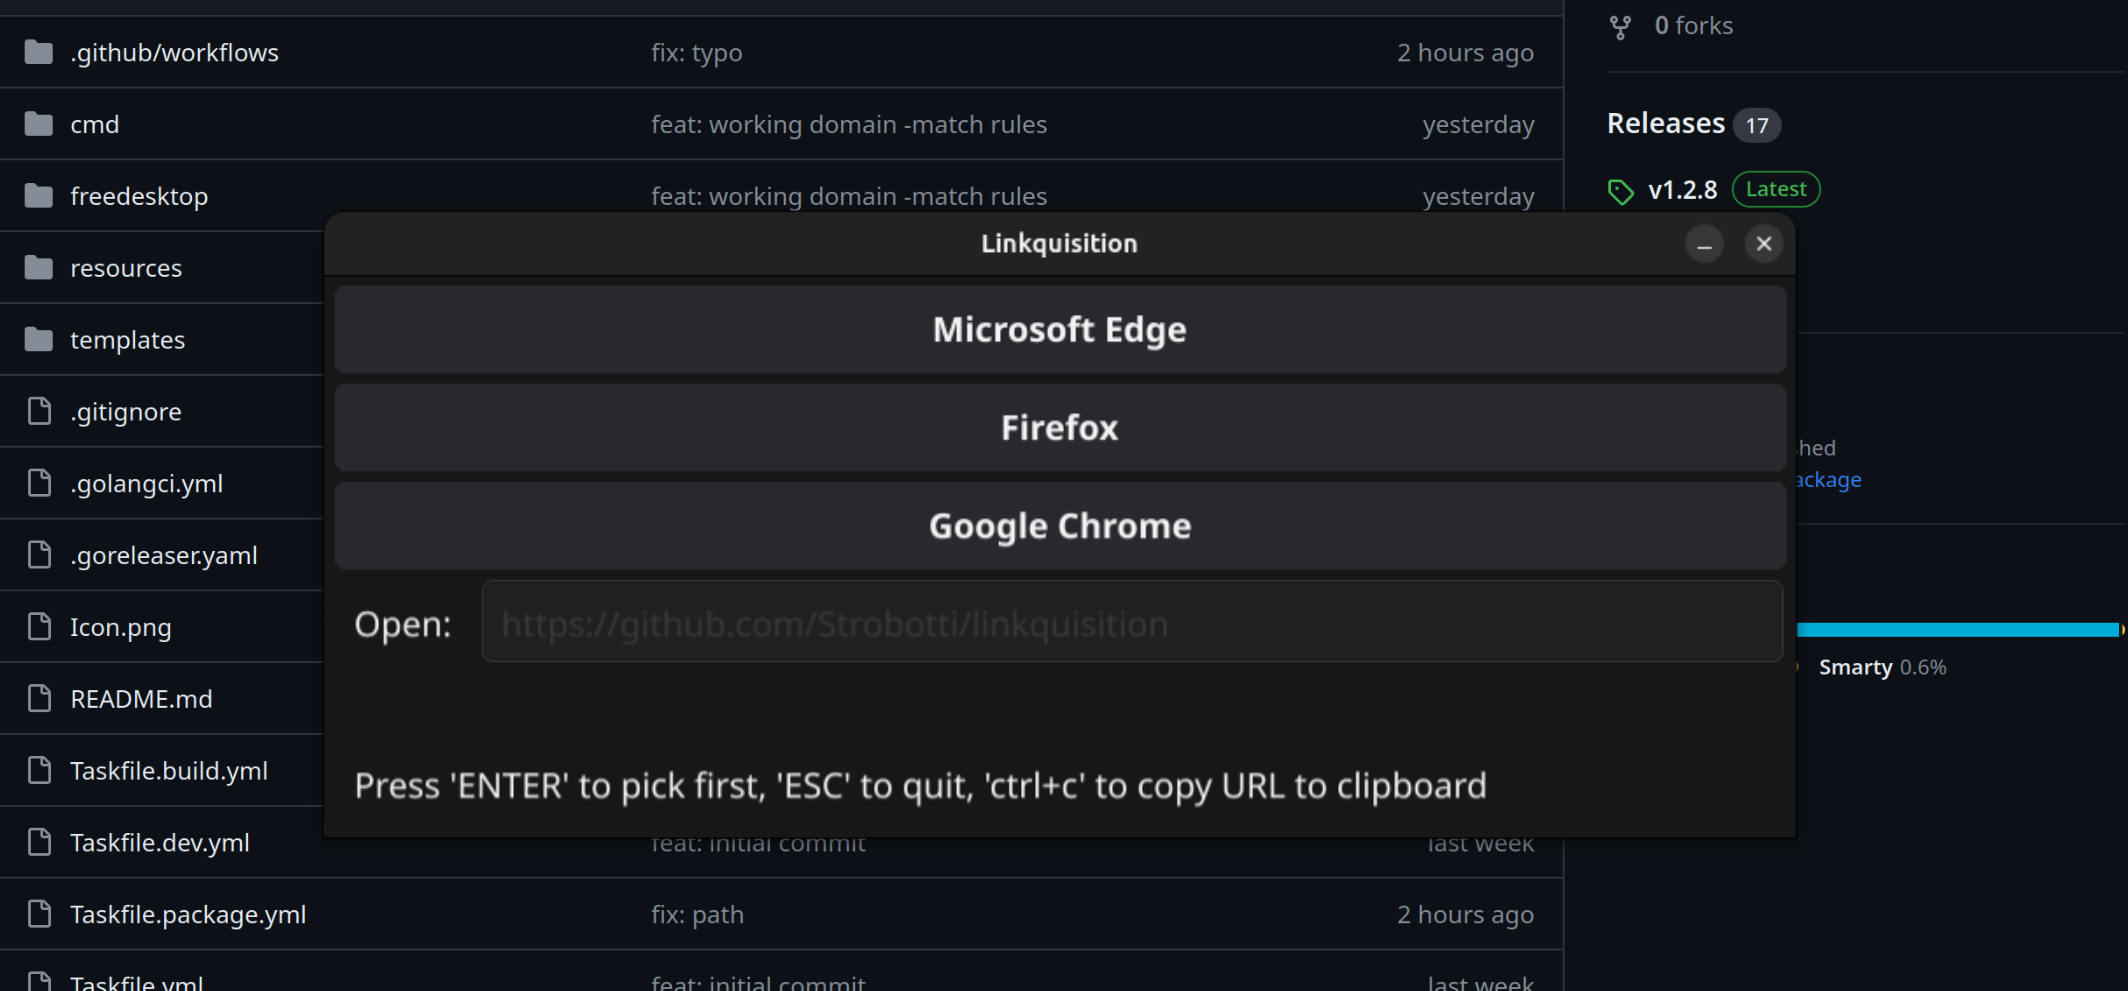
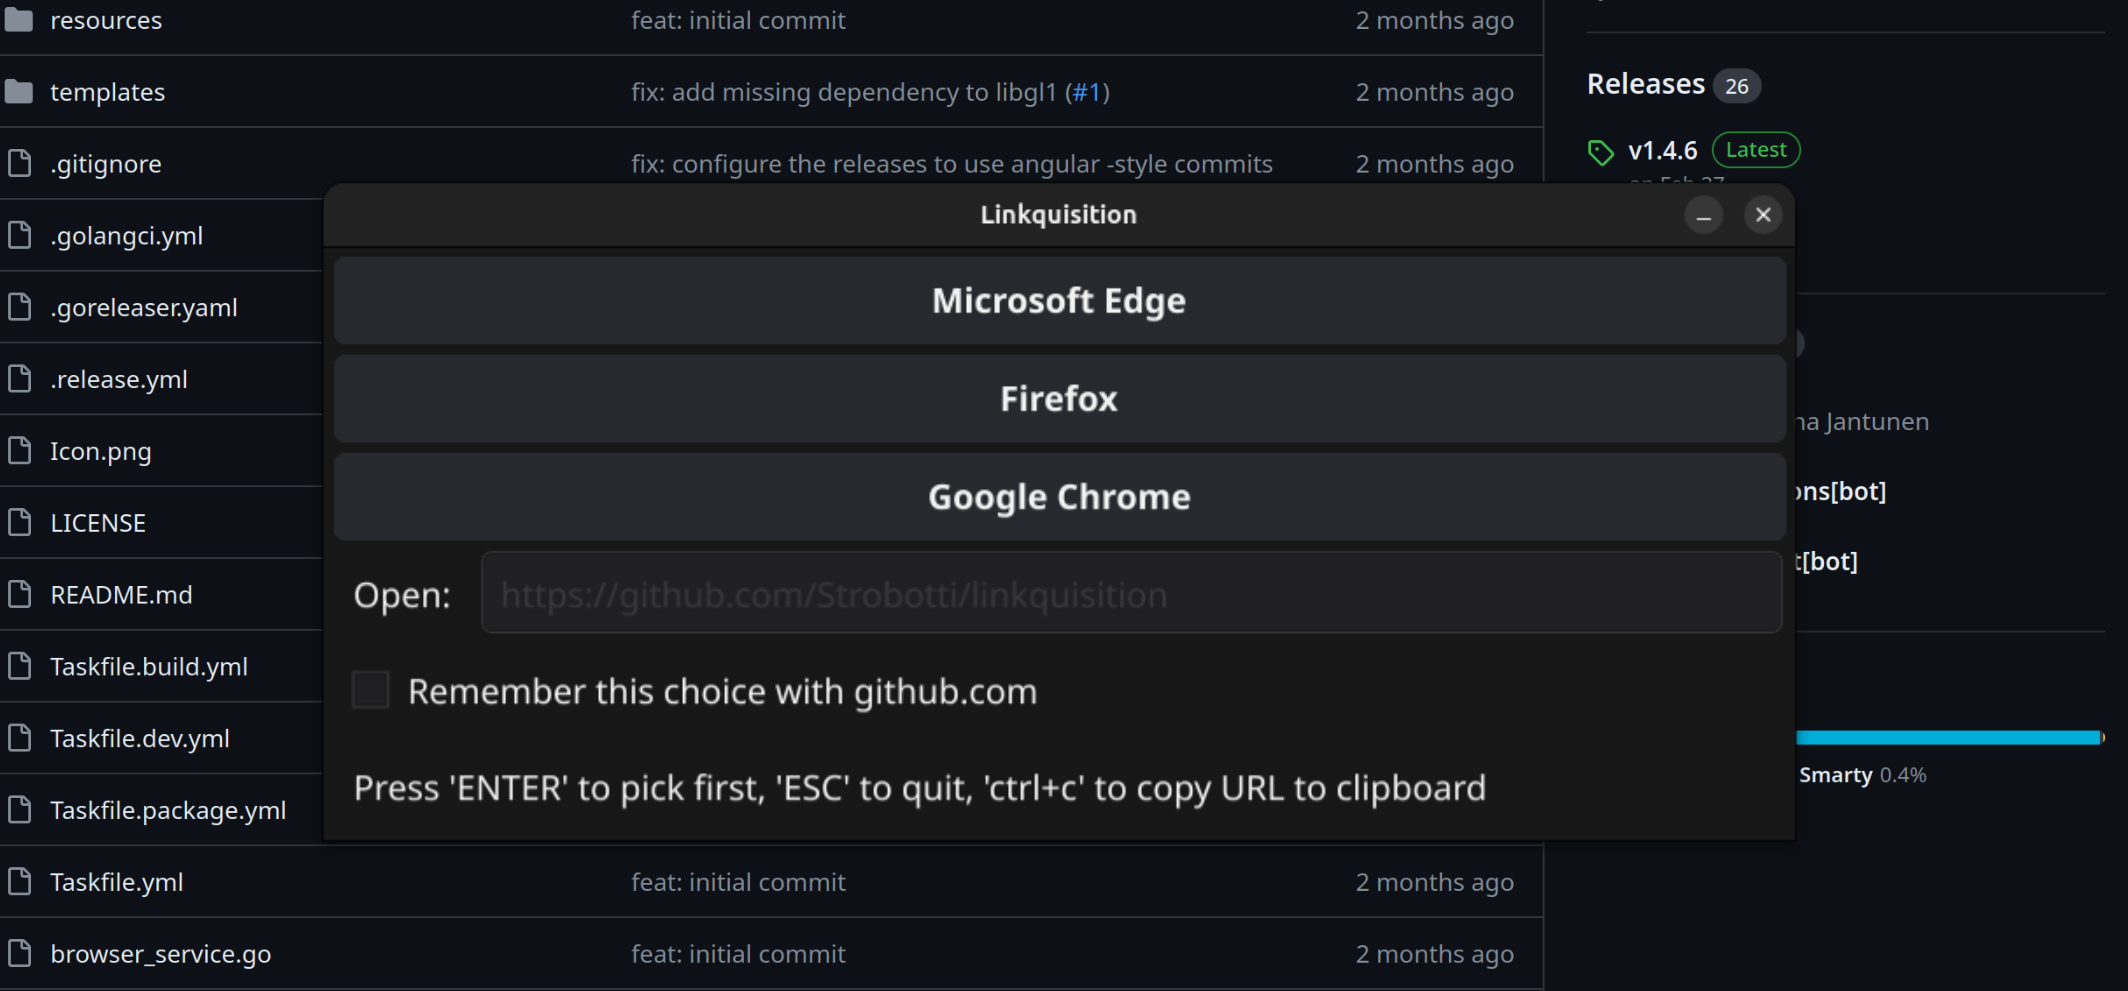
feat: add "terminus" -plugin for resolving redirects (#10)
* feat: add "terminus" -plugin for resolving redirects

* ci(lint): use golangci-lint-action v4

* feat: allow disabling individual plugins using "isDisabled" configuration option

* feat: make terminus -plugin configurable

diff --git a/plugins/terminus/terminus_test.go b/plugins/terminus/terminus_test.go
@@ -1,0 +1,111 @@
+package main_test
+
+import (
+	"log/slog"
+	"net/http"
+	"testing"
+
+	"github.com/stretchr/testify/assert"
+	"github.com/strobotti/linkquisition"
+
+	"github.com/strobotti/linkquisition/mock"
+	. "github.com/strobotti/linkquisition/plugins/terminus"
+)
+
+func TestTerminus_ModifyUrl(t *testing.T) {
+	mockIoWriter := mock.Writer{
+		WriteFunc: func(p []byte) (n int, err error) {
+			return len(p), nil
+		},
+	}
+	logger := slog.New(slog.NewTextHandler(mockIoWriter, nil))
+
+	for _, tt := range []struct {
+		name          string
+		inputUrl      string
+		expectedUrl   string
+		locations     map[string]string
+		responseCodes map[string]int
+	}{
+		{
+			name:        "original url should be returned if no redirect is detected",
+			inputUrl:    "https://www.example.com/some/thing?here=again",
+			expectedUrl: "https://www.example.com/some/thing?here=again",
+		},
+		{
+			name:        "a url from location -header should be returned if a redirect is detected",
+			inputUrl:    "https://www.example.com/some/thing?here=again",
+			expectedUrl: "https://www2.example.com/some/thing?here=again",
+			locations: map[string]string{
+				"https://www.example.com/some/thing?here=again": "https://www2.example.com/some/thing?here=again",
+			},
+			responseCodes: map[string]int{
+				"https://www.example.com/some/thing?here=again": http.StatusMultipleChoices,
+			},
+		},
+		{
+			name:        "a chain of redirects works as expected",
+			inputUrl:    "https://www.example.com/some/thing?here=again",
+			expectedUrl: "https://www3.example.com/some/thing?here=again",
+			locations: map[string]string{
+				"https://www.example.com/some/thing?here=again":  "https://www2.example.com/some/thing?here=again",
+				"https://www2.example.com/some/thing?here=again": "https://www3.example.com/some/thing?here=again",
+			},
+			responseCodes: map[string]int{
+				"https://www.example.com/some/thing?here=again":  http.StatusMultipleChoices,
+				"https://www2.example.com/some/thing?here=again": http.StatusMultipleChoices,
+			},
+		},
+		{
+			name:        "a chain of redirects is capped to 5 hops",
+			inputUrl:    "https://www.example.com/some/thing?here=again",
+			expectedUrl: "https://www6.example.com/some/thing?here=again",
+			locations: map[string]string{
+				"https://www.example.com/some/thing?here=again":  "https://www2.example.com/some/thing?here=again",
+				"https://www2.example.com/some/thing?here=again": "https://www3.example.com/some/thing?here=again",
+				"https://www3.example.com/some/thing?here=again": "https://www4.example.com/some/thing?here=again",
+				"https://www4.example.com/some/thing?here=again": "https://www5.example.com/some/thing?here=again",
+				"https://www5.example.com/some/thing?here=again": "https://www6.example.com/some/thing?here=again",
+				"https://www6.example.com/some/thing?here=again": "https://www7.example.com/some/thing?here=again",
+				"https://www7.example.com/some/thing?here=again": "https://www8.example.com/some/thing?here=again",
+			},
+			responseCodes: map[string]int{
+				"https://www.example.com/some/thing?here=again":  http.StatusMultipleChoices,
+				"https://www2.example.com/some/thing?here=again": http.StatusMultipleChoices,
+				"https://www3.example.com/some/thing?here=again": http.StatusMultipleChoices,
+				"https://www4.example.com/some/thing?here=again": http.StatusMultipleChoices,
+				"https://www5.example.com/some/thing?here=again": http.StatusMultipleChoices,
+				"https://www6.example.com/some/thing?here=again": http.StatusMultipleChoices,
+				"https://www7.example.com/some/thing?here=again": http.StatusMultipleChoices,
+			},
+		},
+	} {
+		t.Run(
+			tt.name, func(t *testing.T) {
+				testedPlugin := Plugin
+
+				provider := linkquisition.NewPluginServiceProvider(logger, &linkquisition.Settings{})
+				testedPlugin.Setup(provider, map[string]interface{}{})
+				testedPlugin.Client.Transport = &mock.RoundTripper{
+					RoundTripFunc: func(r *http.Request) (*http.Response, error) {
+						resp := &http.Response{
+							StatusCode: http.StatusOK,
+							Header:     http.Header{},
+						}
+
+						if code, ok := tt.responseCodes[r.URL.String()]; ok {
+							resp.StatusCode = code
+						}
+						if location, ok := tt.locations[r.URL.String()]; ok {
+							resp.Header.Set("Location", location)
+						}
+
+						return resp, nil
+					},
+				}
+
+				assert.Equal(t, tt.expectedUrl, testedPlugin.ModifyUrl(tt.inputUrl))
+			},
+		)
+	}
+}

diff --git a/plugins/terminus/terminus.go b/plugins/terminus/terminus.go
@@ -1,0 +1,101 @@
+package main
+
+import (
+	"context"
+	"fmt"
+	"net/http"
+	"time"
+
+	"github.com/mitchellh/mapstructure"
+
+	"github.com/strobotti/linkquisition"
+)
+
+type TerminusPluginSettings struct {
+	MaxRedirects   int    `json:"maxRedirects"`
+	RequestTimeout string `json:"requestTimeout"`
+}
+
+var _ linkquisition.Plugin = (*terminus)(nil)
+
+type terminus struct {
+	MaxRedirects    int
+	Client          *http.Client
+	RequestTimeout  time.Duration
+	serviceProvider linkquisition.PluginServiceProvider
+}
+
+func (p *terminus) Setup(serviceProvider linkquisition.PluginServiceProvider, config map[string]interface{}) {
+	p.MaxRedirects = 5
+	p.RequestTimeout = time.Millisecond * 2000
+
+	var settings TerminusPluginSettings
+	if err := mapstructure.Decode(config, &settings); err != nil {
+		serviceProvider.GetLogger().Warn("error decoding settings", "error", err.Error(), "plugin", "terminus")
+	} else {
+		if settings.MaxRedirects > 0 {
+			p.MaxRedirects = settings.MaxRedirects
+		}
+		if settings.RequestTimeout != "" {
+			if timeout, err := time.ParseDuration(settings.RequestTimeout); err != nil {
+				serviceProvider.GetLogger().Warn(
+					"requestTimeout configuration option is malformed", "error", err.Error(), "plugin",
+					"terminus",
+				)
+			} else {
+				p.RequestTimeout = timeout
+			}
+		}
+	}
+
+	p.serviceProvider = serviceProvider
+	p.Client = &http.Client{
+		CheckRedirect: func(req *http.Request, via []*http.Request) error {
+			return http.ErrUseLastResponse
+		},
+	}
+}
+
+func (p *terminus) ModifyUrl(url string) string {
+	newUrl := url
+
+	ctx, cancel := context.WithTimeout(context.Background(), p.RequestTimeout)
+	defer cancel()
+
+	for i := 0; i < p.MaxRedirects; i++ {
+		req, _ := http.NewRequestWithContext(ctx, http.MethodHead, newUrl, http.NoBody)
+		req.Header.Set("User-Agent", "linkquisition")
+		resp, err := p.Client.Do(req)
+		if err != nil {
+			p.serviceProvider.GetLogger().Warn(fmt.Sprintf("error requesting HEAD %s", newUrl), "error", err.Error(), "plugin", "terminus")
+			return newUrl
+		}
+
+		if resp.Body != nil {
+			_ = resp.Body.Close()
+		}
+
+		if resp.StatusCode < 300 || resp.StatusCode >= 400 {
+			// we got a non-redirect response, so we have reached our final destination
+			break
+		}
+
+		location := resp.Header.Get("Location")
+
+		if location == "" {
+			// for whatever reason the location -header doesn't contain a URL; skip
+			p.serviceProvider.GetLogger().Warn(fmt.Sprintf("no location-header for HEAD %s", newUrl), "plugin", "terminus")
+			break
+		}
+
+		p.serviceProvider.GetLogger().Debug(
+			fmt.Sprintf("following a redirect for %s", newUrl), "location", location, "plugin", "terminus",
+		)
+
+		newUrl = location
+	}
+
+	return newUrl
+}
+
+var Plugin terminus

diff --git a/settings.go b/settings.go
@@ -70,7 +70,11 @@ func (s *BrowserSettings) MatchesUrl(u string) bool {
 
 type PluginSettings struct {
 	// Path is the path to the plugin binary
-	Path     string                 `json:"path"`
+	Path string `json:"path"`
+
+	// IsDisabled allows temporarily disabling individual plugins
+	IsDisabled bool `json:"isDisabled"`
+
 	Settings map[string]interface{} `json:"settings,omitempty"`
 }
 

diff --git a/cmd/application.go b/cmd/application.go
@@ -68,6 +68,11 @@ func setupPlugins(
 	var plugins []linkquisition.Plugin
 
 	for _, pluginSettings := range settings.Plugins {
+		if pluginSettings.IsDisabled {
+			logger.Debug("Plugin is disabled by configuration directive", "plugin", pluginSettings.Path)
+			continue
+		}
+
 		pluginPath := pluginSettings.Path
 		if !strings.HasSuffix(pluginPath, ".so") {
 			pluginPath += ".so"

diff --git a/mock/http.go b/mock/http.go
@@ -1,0 +1,11 @@
+package mock
+
+import "net/http"
+
+type RoundTripper struct {
+	RoundTripFunc func(r *http.Request) (*http.Response, error)
+}
+
+func (rt *RoundTripper) RoundTrip(r *http.Request) (*http.Response, error) {
+	return rt.RoundTripFunc(r)
+}

diff --git a/plugins/README.md b/plugins/README.md
@@ -51,6 +51,33 @@ In the above example, the `requireBrowserMatchToUnwrap` -setting is set to `true
 unwrap the links if there is a matching browser-rule for that URL and all the rest of the URLs are opened with full
 Evergreen-protected URL.
 
+## [Terminus](./terminus/terminus.go) -plugin
+
+This plugin can be used to resolve redirects before processing actual rules or showing the browser picker dialog to the
+user.
+
+The plugin is configurable in terms of how many redirect-"jumps" to follow and the time-limit how long the requests are
+allowed to take before giving up. Here's an example:
+
+```json
+{
+  "browsers": [
+    ...
+  ],
+  "plugins": [
+    {
+      "path": "terminus.so",
+      "isDisabled": false,
+      "settings": {
+        "maxRedirects": 10,
+        "requestTimeout": "2s"
+      }
+    }
+  ]
+}
+
+```
+
 ## Developing plugins
 
 As stated before, the plugins-feature is experimental, the API is not stable and therefore subject to change. However,

diff --git a/README.md b/README.md
@@ -24,6 +24,7 @@ Motivation behind this project is:
     - regular expression (e.g. `.*\.example\.com`)
   - Hide a browser from the list
   - Manually add a browser to the list (for example, to open a URL in a different profile)
+  - Remember the choice for given site
 - keyboard-shortcuts
   - `Enter` to open the URL in the default browser
   - `Ctrl+C` to just copy the URL to clipboard and close the window
